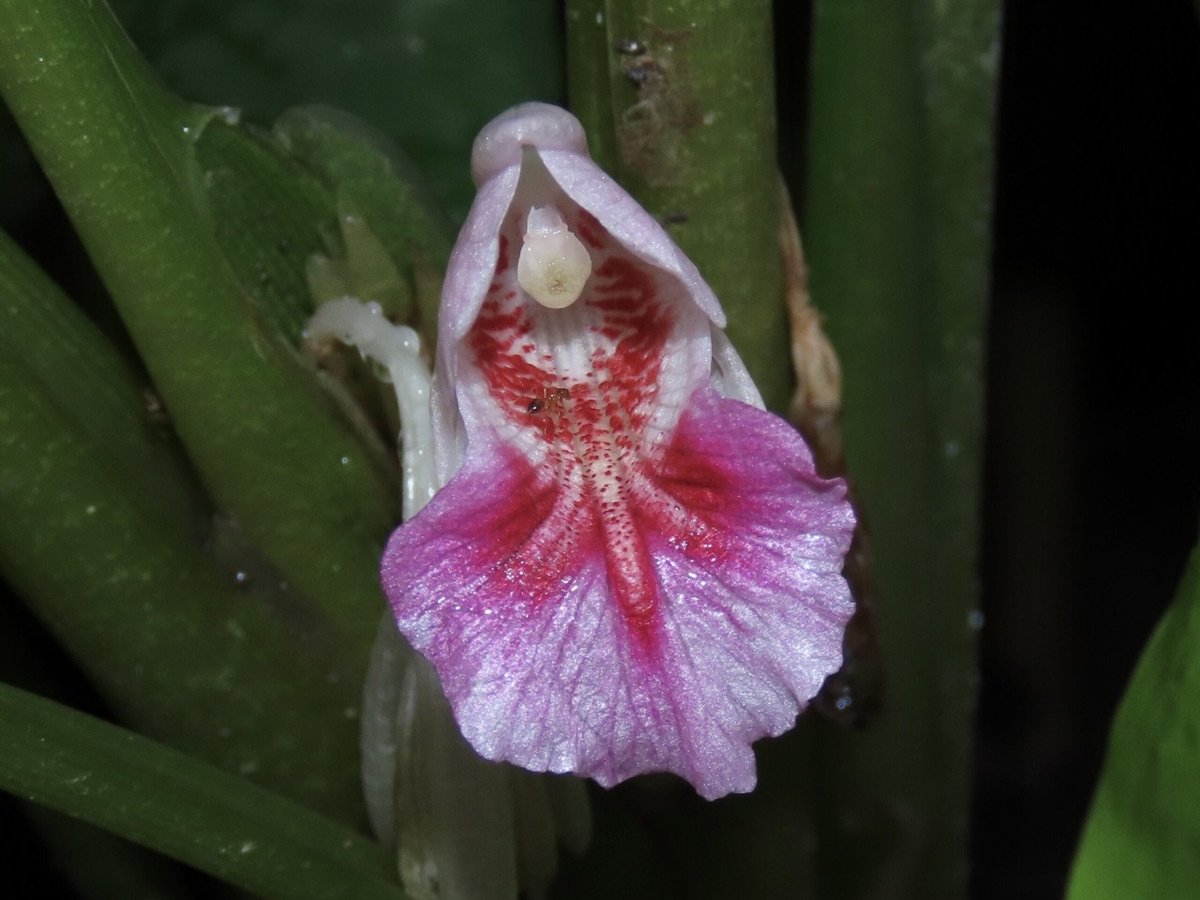
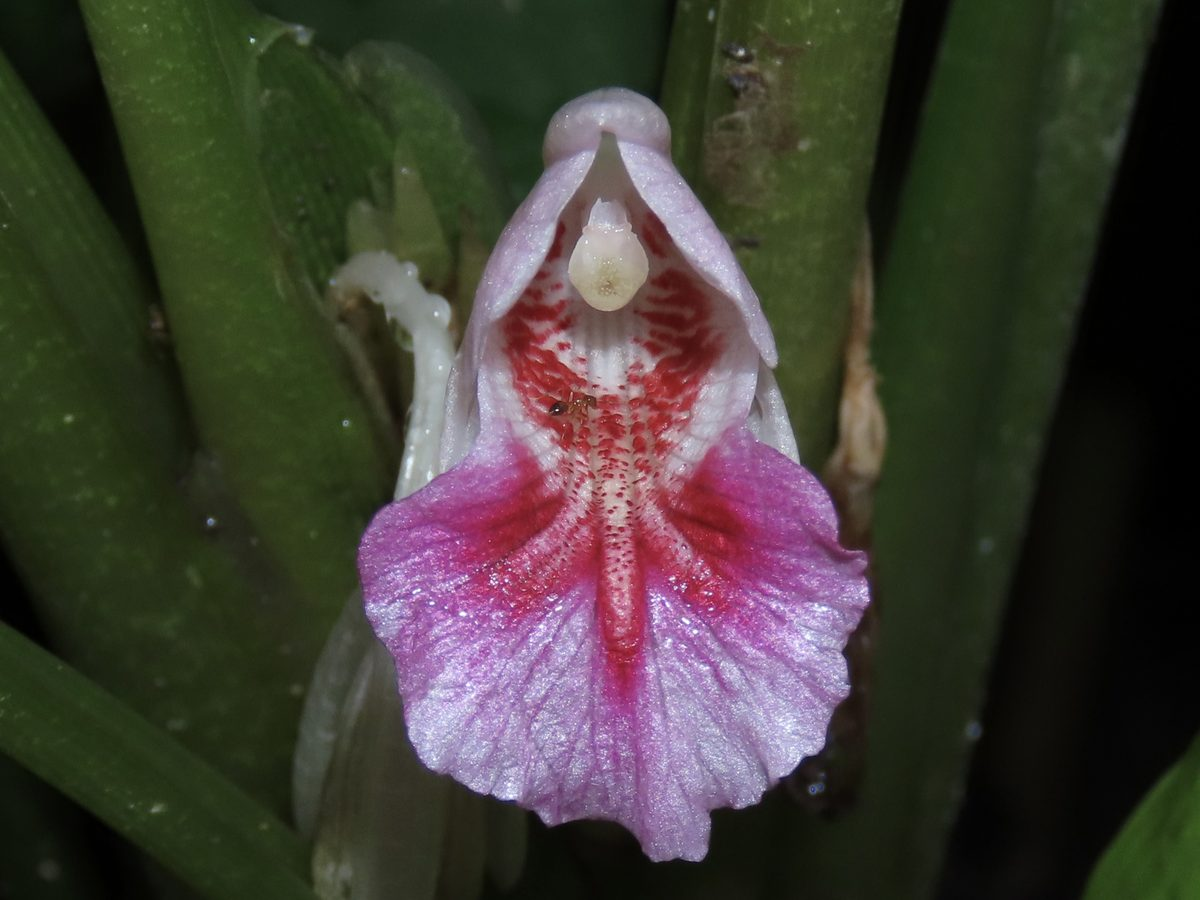
Q故事搬家、各區的身分、關於這份花曆

diff --git a/src/styles/global.css b/src/styles/global.css
@@ -18,18 +18,11 @@ header.top{position:sticky;top:env(safe-area-inset-top,0px);z-index:10;backgroun
 header.top .wrap{display:flex;align-items:center;justify-content:space-between;height:56px;gap:16px}
 .brand{font-family:var(--serif);font-weight:700;font-size:18px;color:var(--ink);text-decoration:none;white-space:nowrap;display:flex;align-items:center;gap:9px}
 .brand img{width:30px;height:30px;display:block;flex:none}
-/* 不要 min-width:0——那會讓這一塊被壓得比文字還窄，字就溢出去壓到選單上 */
-.brandbox{display:flex;align-items:center;gap:8px;flex:none}
-.brandbox .sep{color:var(--leaf);opacity:.55;font-weight:400}
-.brand.sub{font-weight:700}
 /* nowrap：項目多的時候選單會換行，不加這個「關於」會被拆成「關」「於」兩行 */
 nav a{color:var(--ink);text-decoration:none;margin-left:18px;font-size:15px;white-space:nowrap}
 nav a:hover,nav a[aria-current="page"]{color:var(--bloom)}
 @media (max-width:560px){nav a{margin-left:12px;font-size:14px}.brand{font-size:16px;gap:7px}.brand img{width:25px;height:25px}
-  /* 手機放不下「小花老師 ／ 台北植物園花曆」，留花曆的名字（告訴你人在哪裡），
-     「小花老師」四個字收起來，標誌本身還是回首頁的連結，頁尾也有一條明路。 */
-  .brandbox:has(.sub) .brand:first-child span,.brandbox .sep{display:none}
-  .brandbox{gap:7px}}
+}
 h1{font-family:var(--serif);font-weight:900;font-size:clamp(32px,6vw,52px);line-height:1.15;margin:0 0 12px;letter-spacing:.02em}
 h2{font-family:var(--serif);font-weight:700;font-size:26px;margin:0 0 6px}
 .lead{font-size:17px;max-width:32em;margin:0 0 20px}
@@ -62,4 +55,5 @@ section{padding:32px 0}
 .btn.solid{background:var(--bloom);border-color:var(--bloom);color:#fff}
 .btn[aria-disabled="true"]{background:var(--mist);border-color:var(--mist);color:var(--leaf);cursor:not-allowed}
 footer{border-top:1px solid var(--mist);padding:24px 0 40px;font-size:13px;color:var(--leaf);margin-top:32px}
+.fnav{display:flex;flex-wrap:wrap;gap:6px 20px;margin:0 0 14px;font-size:14px}
 .empty{padding:28px 4px;color:var(--leaf)}
